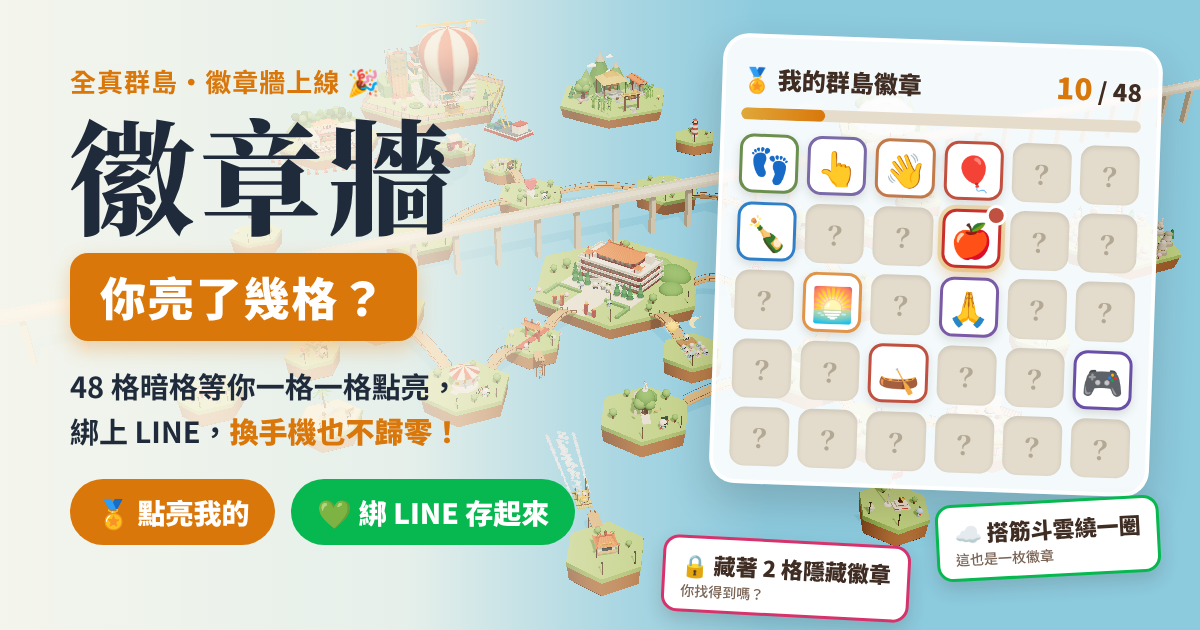
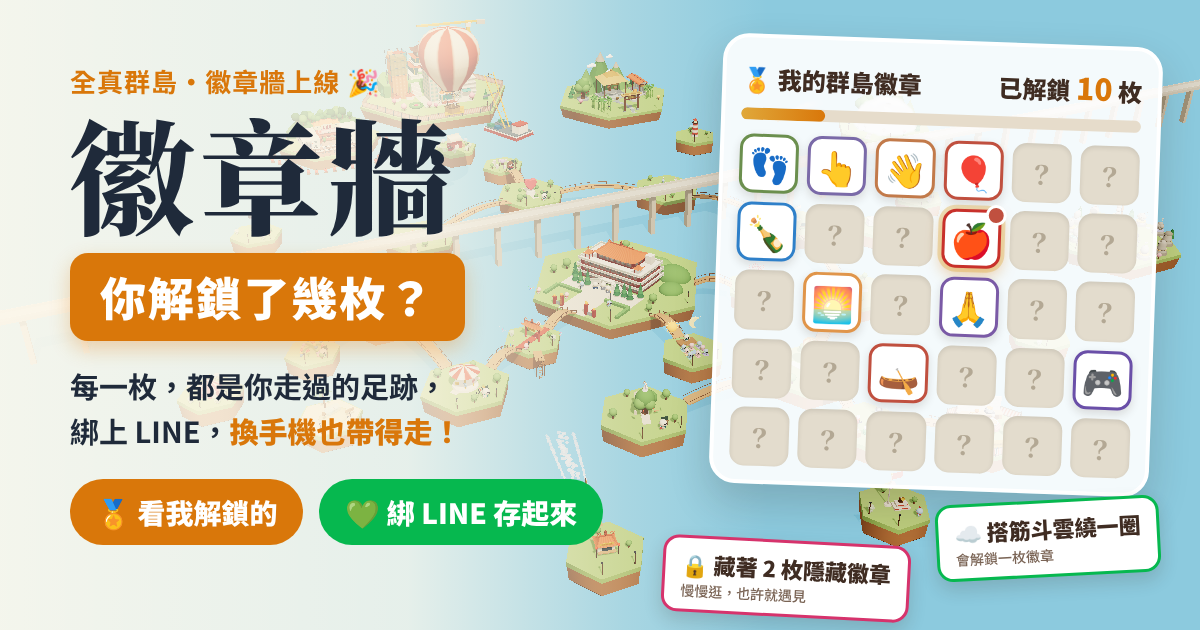
徽章牆縮圖與文案：改成「你解鎖了幾枚？」不比較的正能量問法
Claude-Session: https://claude.ai/code/session_01CYjxtCfQ8MjKojeoS8Ncse

diff --git a/islands/badges/index.html b/islands/badges/index.html
@@ -5,18 +5,18 @@
 <meta name="viewport" content="width=device-width, initial-scale=1">
 <meta name="robots" content="noindex, nofollow">
 <title>徽章牆｜全真群島</title>
-<meta name="description" content="全真群島 48 格徽章牆，你亮了幾格？逛島、寫瓶中信、搭熱氣球都能點亮；綁上 LINE，換手機也不歸零。">
+<meta name="description" content="全真群島的 48 枚徽章，你解鎖了幾枚？逛島、寫瓶中信、搭熱氣球，每一步都算數；綁上 LINE，換手機也帶得走。">
 <meta property="og:type" content="website">
 <meta property="og:site_name" content="全真群島・2027 全真社青">
-<meta property="og:title" content="🏅 48 格徽章牆，你亮了幾格？">
-<meta property="og:description" content="有人 3 分鐘亮 5 格，有人還在找隱藏徽章 👀 綁上 LINE，換手機也不歸零。點開看看你的牆！">
+<meta property="og:title" content="🏅 群島 48 枚徽章，你解鎖了幾枚？">
+<meta property="og:description" content="慢慢逛、慢慢收，每一枚都是你的足跡 ✨ 還藏著 2 枚隱藏徽章。綁上 LINE，換手機也帶得走。">
 <meta property="og:url" content="https://steven4dev.github.io/yiguandao-2027-course/islands/badges/">
-<meta property="og:image" content="https://steven4dev.github.io/yiguandao-2027-course/islands/badges/og-badges.png?v=2">
-<meta property="og:image:secure_url" content="https://steven4dev.github.io/yiguandao-2027-course/islands/badges/og-badges.png?v=2">
+<meta property="og:image" content="https://steven4dev.github.io/yiguandao-2027-course/islands/badges/og-badges.png?v=3">
+<meta property="og:image:secure_url" content="https://steven4dev.github.io/yiguandao-2027-course/islands/badges/og-badges.png?v=3">
 <meta property="og:image:type" content="image/png">
 <meta property="og:image:width" content="1200">
 <meta property="og:image:height" content="630">
-<meta property="og:image:alt" content="全真群島徽章牆：48 格徽章，亮的是已收集、暗的是還沒找到，標題問你亮了幾格">
+<meta property="og:image:alt" content="全真群島徽章牆：48 枚徽章，亮的是已解鎖、「？」是還沒遇見的，標題問你解鎖了幾枚">
 <meta property="og:locale" content="zh_TW">
 <meta name="twitter:card" content="summary_large_image">
 <!-- 這頁只負責 LINE／Facebook 分享時的預覽圖；點進來到群島、直接打開徽章牆（最下面就是 LINE 登入・保存紀錄） -->

diff --git a/islands/promo/poster-badges.html b/islands/promo/poster-badges.html
@@ -36,18 +36,18 @@ h1{margin:6px 0 0;font-family:"Noto Serif TC",serif;font-weight:900;font-size:12
 </style></head><body>
 <img class="art" src="art-badges.png"><div class="veil"></div>
 <div class="wall">
-  <div class="hd"><span>🏅 我的群島徽章</span><span><em>10</em> / 48</span></div>
+  <div class="hd"><span>🏅 我的群島徽章</span><span>已解鎖 <em>10</em> 枚</span></div>
   <div class="bar"><i></i></div>
   <div class="grid" id="g"></div>
 </div>
-<div class="chip k1">☁ 搭筋斗雲繞一圈<small>這也是一枚徽章</small></div>
-<div class="chip k2">🔒 藏著 2 格隱藏徽章<small>你找得到嗎？</small></div>
+<div class="chip k1">☁ 搭筋斗雲繞一圈<small>會解鎖一枚徽章</small></div>
+<div class="chip k2">🔒 藏著 2 枚隱藏徽章<small>慢慢逛，也許就遇見</small></div>
 <div class="txt">
   <div class="kick">全真群島・徽章牆上線 🎉</div>
   <h1>徽章牆</h1>
-  <div class="pill">你亮了幾格？</div>
-  <div class="desc">48 格暗格等你一格一格點亮，<br>綁上 LINE，<b>換手機也不歸零！</b></div>
-  <div class="btns"><span class="btn" style="background:#d9770a">🏅 點亮我的</span><span class="btn" style="background:#06b84f">💚 綁 LINE 存起來</span></div>
+  <div class="pill">你解鎖了幾枚？</div>
+  <div class="desc">每一枚，都是你走過的足跡，<br>綁上 LINE，<b>換手機也帶得走！</b></div>
+  <div class="btns"><span class="btn" style="background:#d9770a">🏅 看我解鎖的</span><span class="btn" style="background:#06b84f">💚 綁 LINE 存起來</span></div>
 </div>
 <script>
 // 30 格示意：亮的用真實徽章的 emoji 與主色，其餘暗格；其中一格有「新徽章」紅點、一格發光

diff --git a/islands/promo/line-badges.md b/islands/promo/line-badges.md
@@ -1,46 +1,49 @@
 # 徽章牆 LINE 分享文案（2026-11）
 
 連結：`https://steven4dev.github.io/yiguandao-2027-course/islands/badges/`
-預覽圖：`islands/badges/og-badges.png`（標題「你亮了幾格？」）
-規則：單行最多 12 個中文字、表情符號算約 2 字；語氣攜手同行，不催促。
+預覽圖：`islands/badges/og-badges.png`（標題「你解鎖了幾枚？」）
+規則：單行最多 12 個中文字、表情符號算約 2 字；語氣攜手同行，**不比較、不催促**——每一枚都是自己走過的足跡。
 
-## A　挑戰版（貼到群組，先丟一個鉤子）
+## A　好奇版（貼到群組，先丟一個鉤子）
 ```
-🏅 欸，你的牆亮幾格？
-我剛點亮了 10 格 😏
-還有 2 格藏起來的，
-我到現在都沒找到…
+🏅 猜猜我解鎖了幾枚？
+逛著逛著，不小心
+就收了 10 枚 ✨
+每一枚，都是一段回憶
 
-48 格暗格，
-我們一起點亮好嗎？
-👇 點開看你亮幾格
+還藏著 2 枚隱藏徽章，
+我們一起慢慢找吧！
+👇 點開看你解鎖幾枚
 （連結）
 ```
 
 ## B　攜手版（貼給學長姐、新朋友）
 ```
-🌱 一起來點亮徽章牆吧
+🌱 一起來收集足跡吧
 逛逛島、寫瓶中信、
-搭熱氣球…玩著玩著，
-就亮起一格又一格 ✨
+搭熱氣球…每一步，
+都會解鎖一枚徽章 ✨
 
-💚 還能綁 LINE 帳號，
-換手機，徽章也跟著走！
+💚 綁上 LINE 帳號，
+換手機，足跡也帶得走！
 （連結）
 ```
 
 ## C　短版（私訊、貼圖後補一句）
 ```
-我的徽章牆亮了 10 格，
-你呢？來跟我比 😆
+我解鎖了 10 枚徽章，
+你呢？慢慢收就好 😊
 （連結）
 ```
 
 ## 鉤子對照
 | 位置 | 鉤子 | 心理 |
 |---|---|---|
-| 縮圖大標 | 你亮了幾格？ | 好奇＋想比較 |
-| 縮圖畫面 | 暗格「？」＋一個紅點新徽章 | 想補滿、想點開 |
-| 縮圖小卡 | 藏著 2 格隱藏徽章 | 解謎 |
-| 訊息第一句 | 欸，你的牆亮幾格？ | 直接點名 |
-| 訊息結尾 | 綁 LINE，換手機不歸零 | 怕白玩，給安心感 |
+| 縮圖大標 | 你解鎖了幾枚？ | 好奇、回顧自己的足跡（不是跟人比） |
+| 縮圖說明 | 每一枚，都是你走過的足跡 | 肯定感、被看見 |
+| 縮圖小卡 | 藏著 2 枚隱藏徽章，慢慢逛，也許就遇見 | 探索的期待，沒有壓力 |
+| 訊息第一句 | 猜猜我解鎖了幾枚？ | 輕鬆好奇的邀請 |
+| 訊息結尾 | 綁 LINE，足跡也帶得走 | 安心感 |
+
+## 避免的說法
+「比一比」「誰贏」「落後」「還沒亮」「快點」——改用「解鎖」「足跡」「慢慢來」「一起」。

diff --git a/islands/promo/README.md b/islands/promo/README.md
@@ -55,7 +55,7 @@
 | 2026-10 | 登島懶人包（怎麼玩？） | `2026-10-登島懶人包.png`，宣傳連結 `islands/guide/`，點進去會跳出操作說明 |
 | 2026-11 | 拂塵淨心島（11/11 正式開放，雷擊拂塵海報） | `islands/fuchen-game/og-fuchen.png`（換圖時 `?v=` 要在 `fuchen-game/index.html` 與 `fuchen/index.html` 兩邊一起加一），宣傳連結 `islands/fuchen/`，點進去直接到拂塵淨心島 |
 | 2026-11 | 濟世靈山島（新島上岸，11/10 正式開放） | `islands/jishi/og-jishi.png`，宣傳連結 `islands/jishi/?v=2`，點進去直接飛到濟世靈山島 |
-| 2026-11 | 徽章牆（你亮了幾格？，LINE 登入・保存紀錄） | `2026-11-徽章牆.png`＝`islands/badges/og-badges.png`（設計稿 `poster-badges.html`，換圖時 `?v=` 要在 `badges/index.html` 加一），宣傳連結 `islands/badges/`，點進去直接打開徽章牆 |
+| 2026-11 | 徽章牆（你解鎖了幾枚？，不比較的正能量問法；LINE 登入・保存紀錄） | `2026-11-徽章牆.png`＝`islands/badges/og-badges.png`（設計稿 `poster-badges.html`，換圖時 `?v=` 要在 `badges/index.html` 加一（目前 v=3）），宣傳連結 `islands/badges/`，點進去直接打開徽章牆 |
 
 ## LINE 貼文文案的規則（作者指定，每次都照做）
 - **單行最多 12 個中文字**，盡量不要被 LINE 自動斷行；表情符號算約 2 字。

diff --git a/islands/CHANGELOG.md b/islands/CHANGELOG.md
@@ -58,7 +58,7 @@
   - 分享入口 `islands/chef/`（LINE 預覽圖 `islands/chef-game/og-chef.png`）。
 
 ## v261122.05
-- 🏅 **徽章牆分享連結**：新增 `islands/badges/`，在 LINE 分享時顯示「48 格徽章牆，你亮了幾格？」的預覽圖；點進來直接打開徽章牆，最下面就是「用 LINE 登入・保存紀錄」。（預覽圖 `badges/og-badges.png`＝島嶼空拍當背景＋徽章牆示意，設計稿 `promo/poster-badges.html`，空拍底圖 `promo/art-badges.png`）
+- 🏅 **徽章牆分享連結**：新增 `islands/badges/`，在 LINE 分享時顯示「群島 48 枚徽章，你解鎖了幾枚？」（不比較，每一枚都是自己的足跡）的預覽圖；點進來直接打開徽章牆，最下面就是「用 LINE 登入・保存紀錄」。（預覽圖 `badges/og-badges.png`＝島嶼空拍當背景＋徽章牆示意，設計稿 `promo/poster-badges.html`，空拍底圖 `promo/art-badges.png`）
 
 ## v261122.04
 - 🎉 **LINE 登入・保存紀錄正式開放**：所有玩家打開徽章牆，最下面都會看到「用 LINE 登入・保存紀錄」；已經登入過的手機也可以按「取得配對碼」，把紀錄接到桌面圖示或另一支手機。不登入照樣能玩。要暫時收起，把 `ACCT_LIVE` 改回 `false` 即可。
